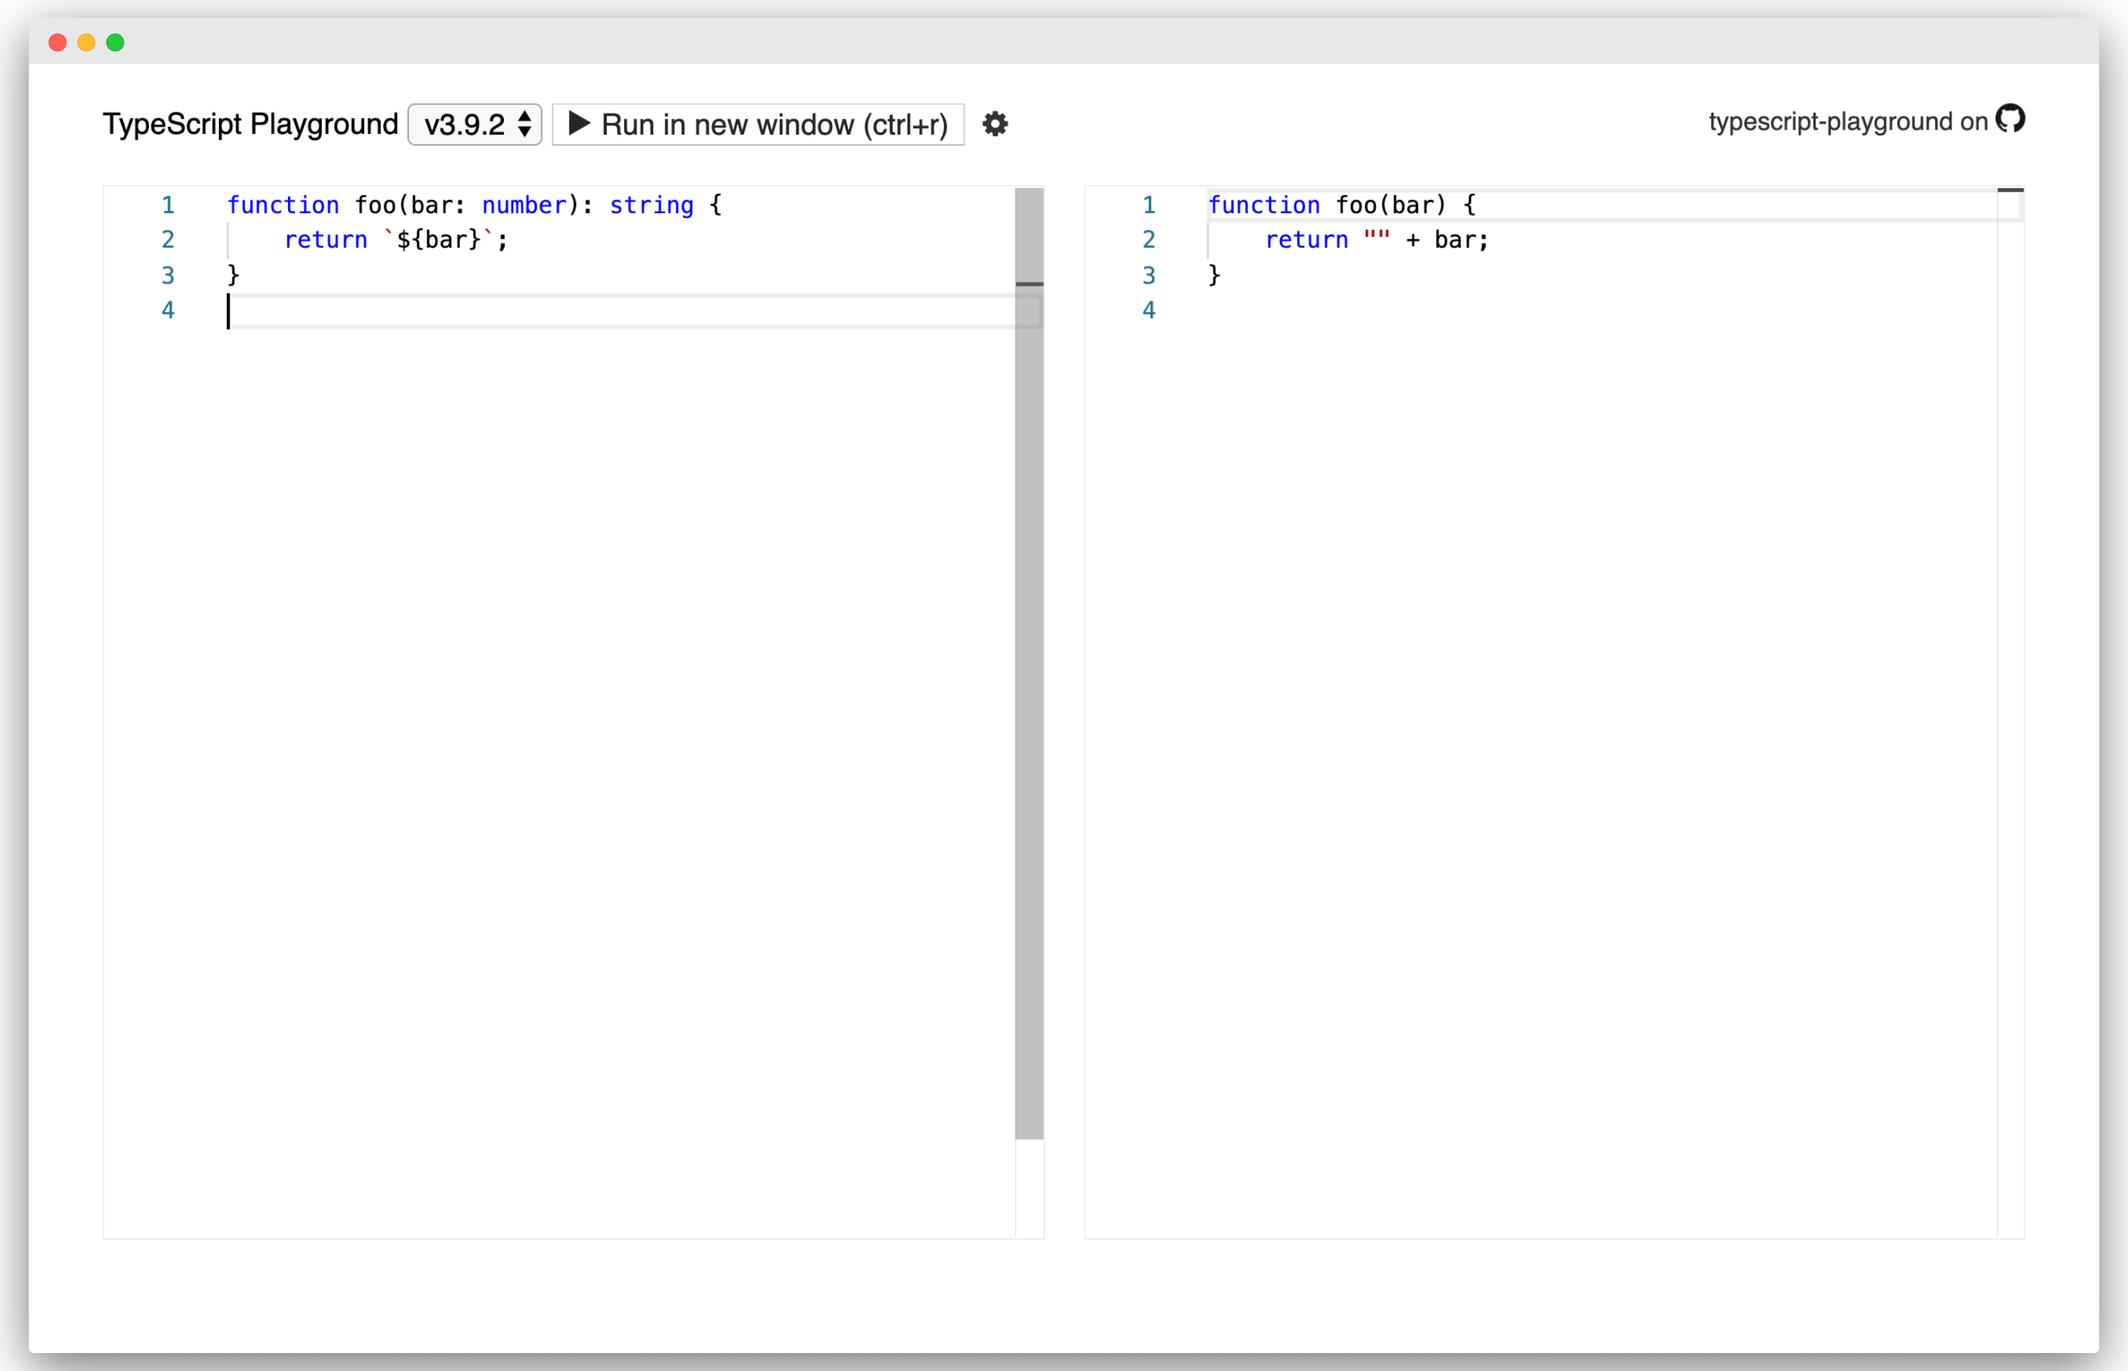
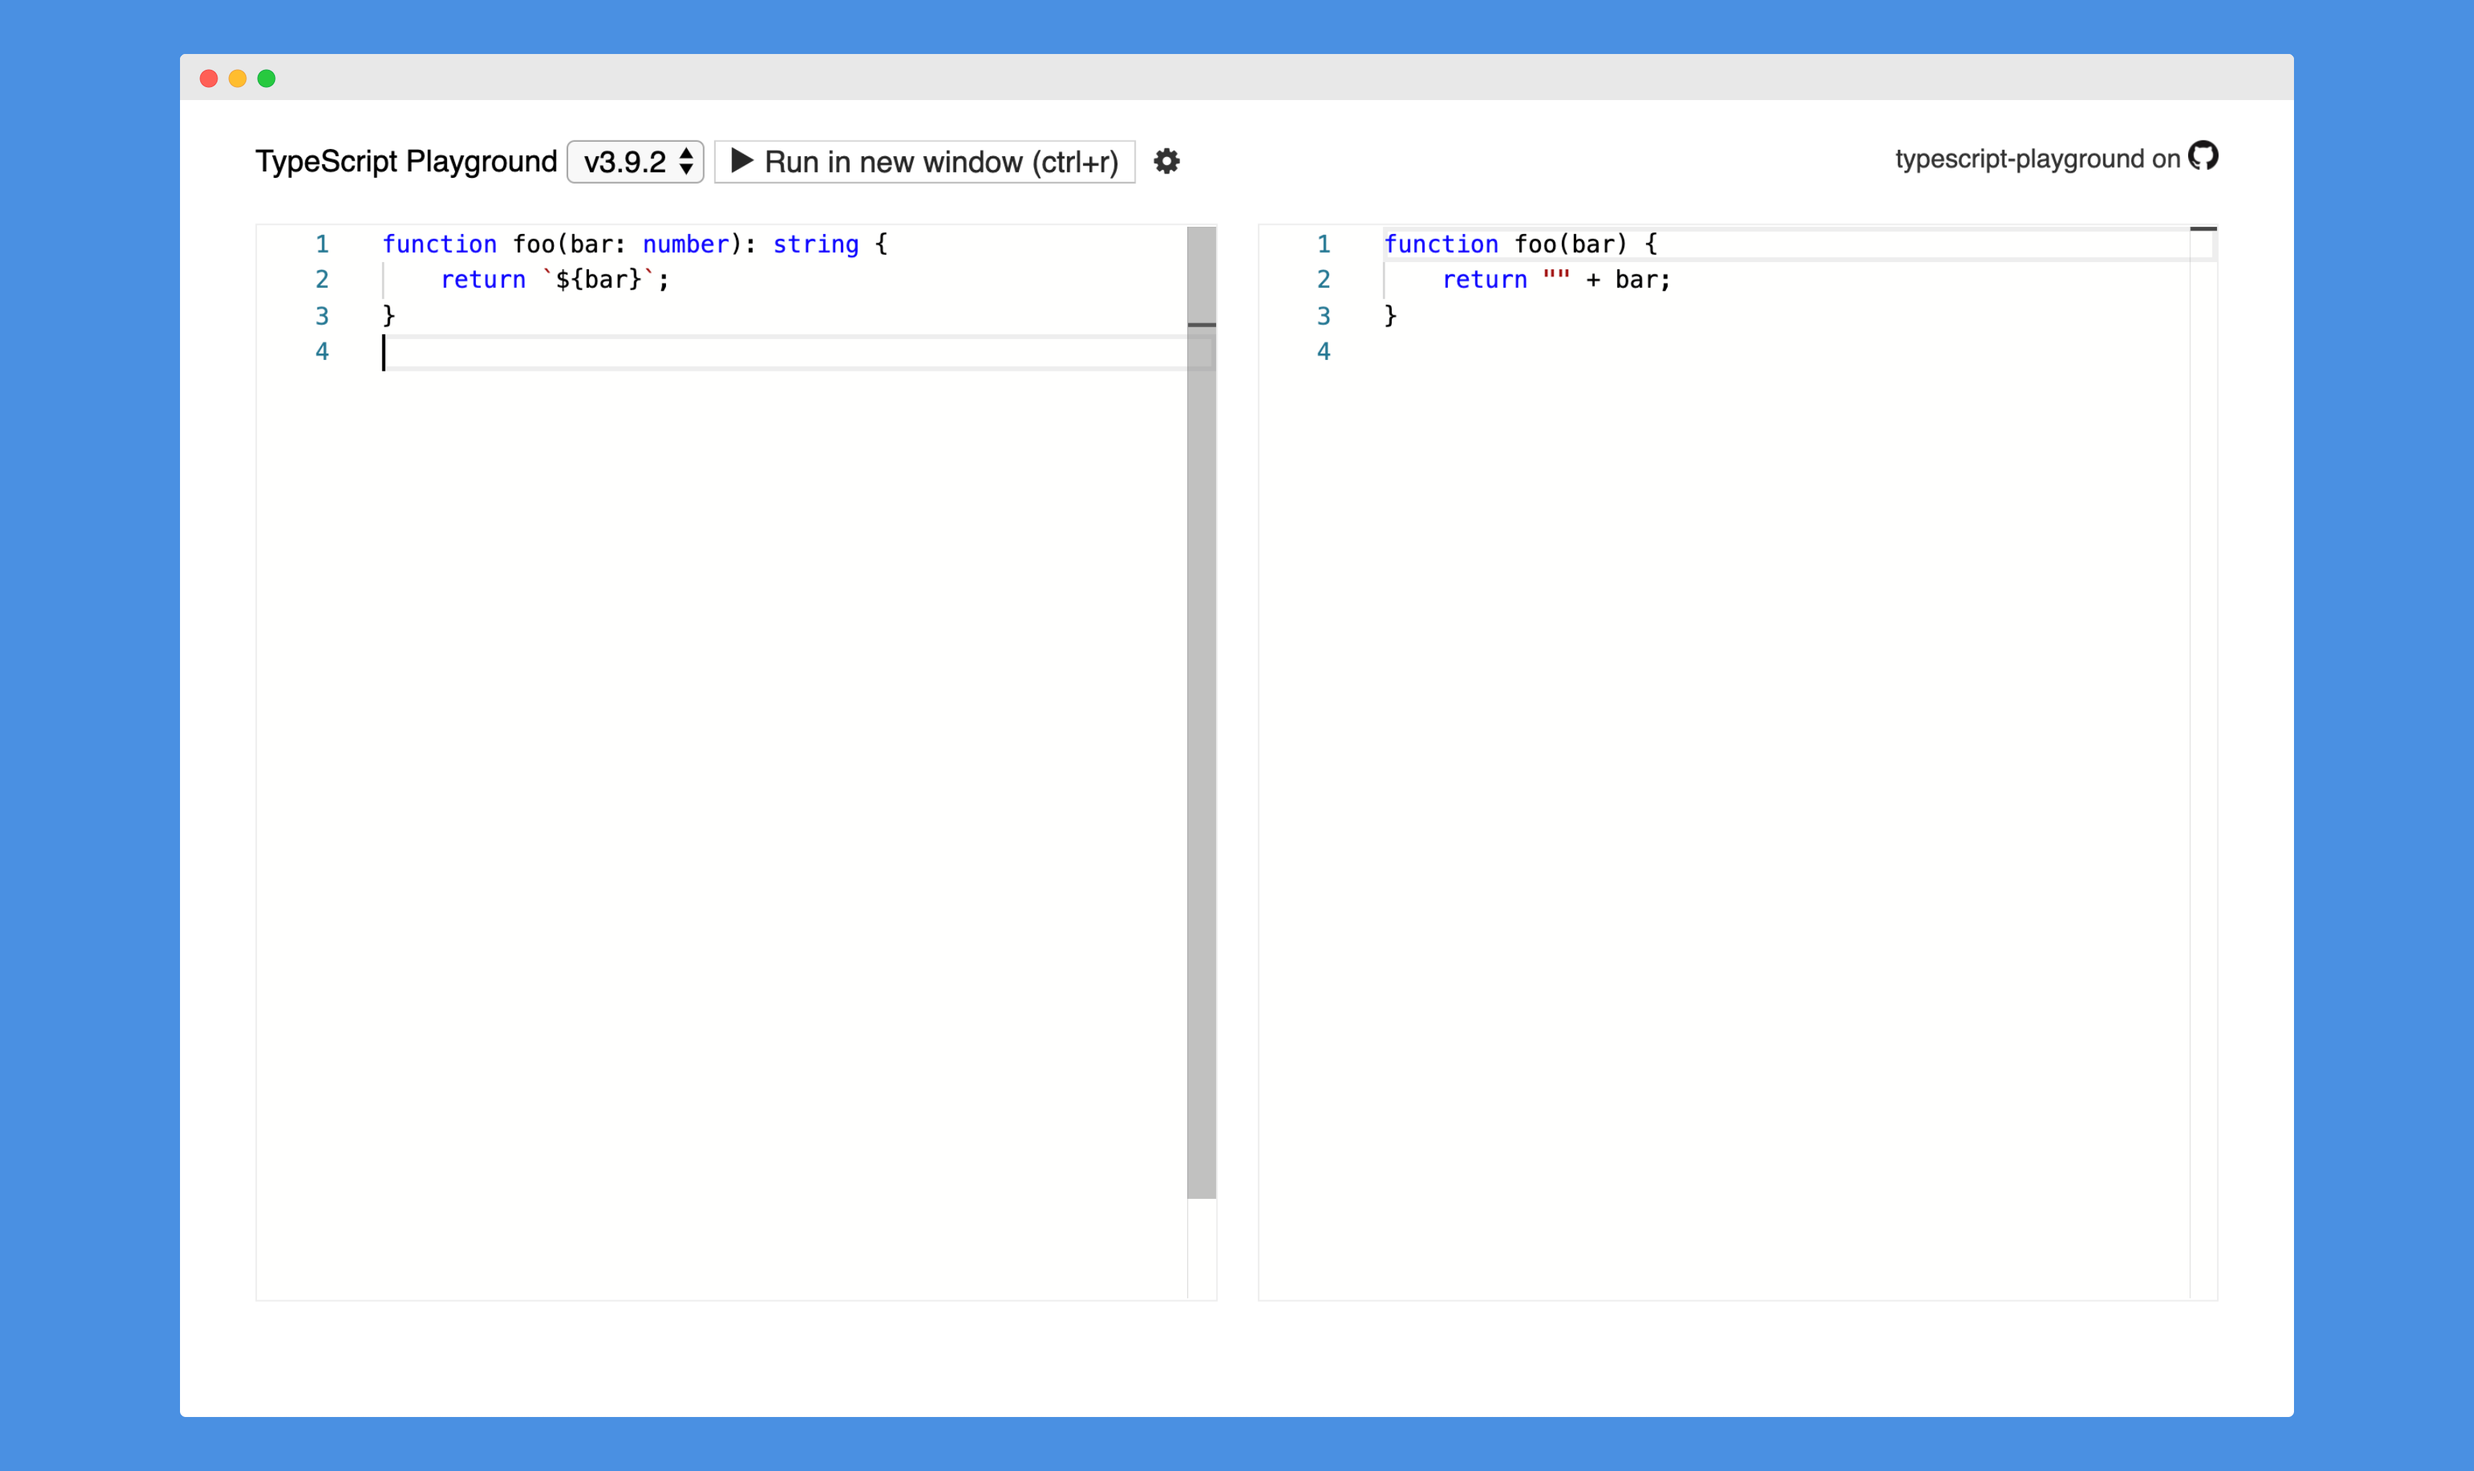
Change screenshot

Changed region(s): [[0.0, 0.0, 1.0, 1.0], [0.5291, 0.1239, 0.6847, 0.2168]]

diff --git a/README.md b/README.md
@@ -1,5 +1,5 @@
 <p align="center">
-  <img width="620" src="typescript-playground.png">
+  <img width="100%" src="typescript-playground.png">
 </p>
 
 # TypeScript Playground
